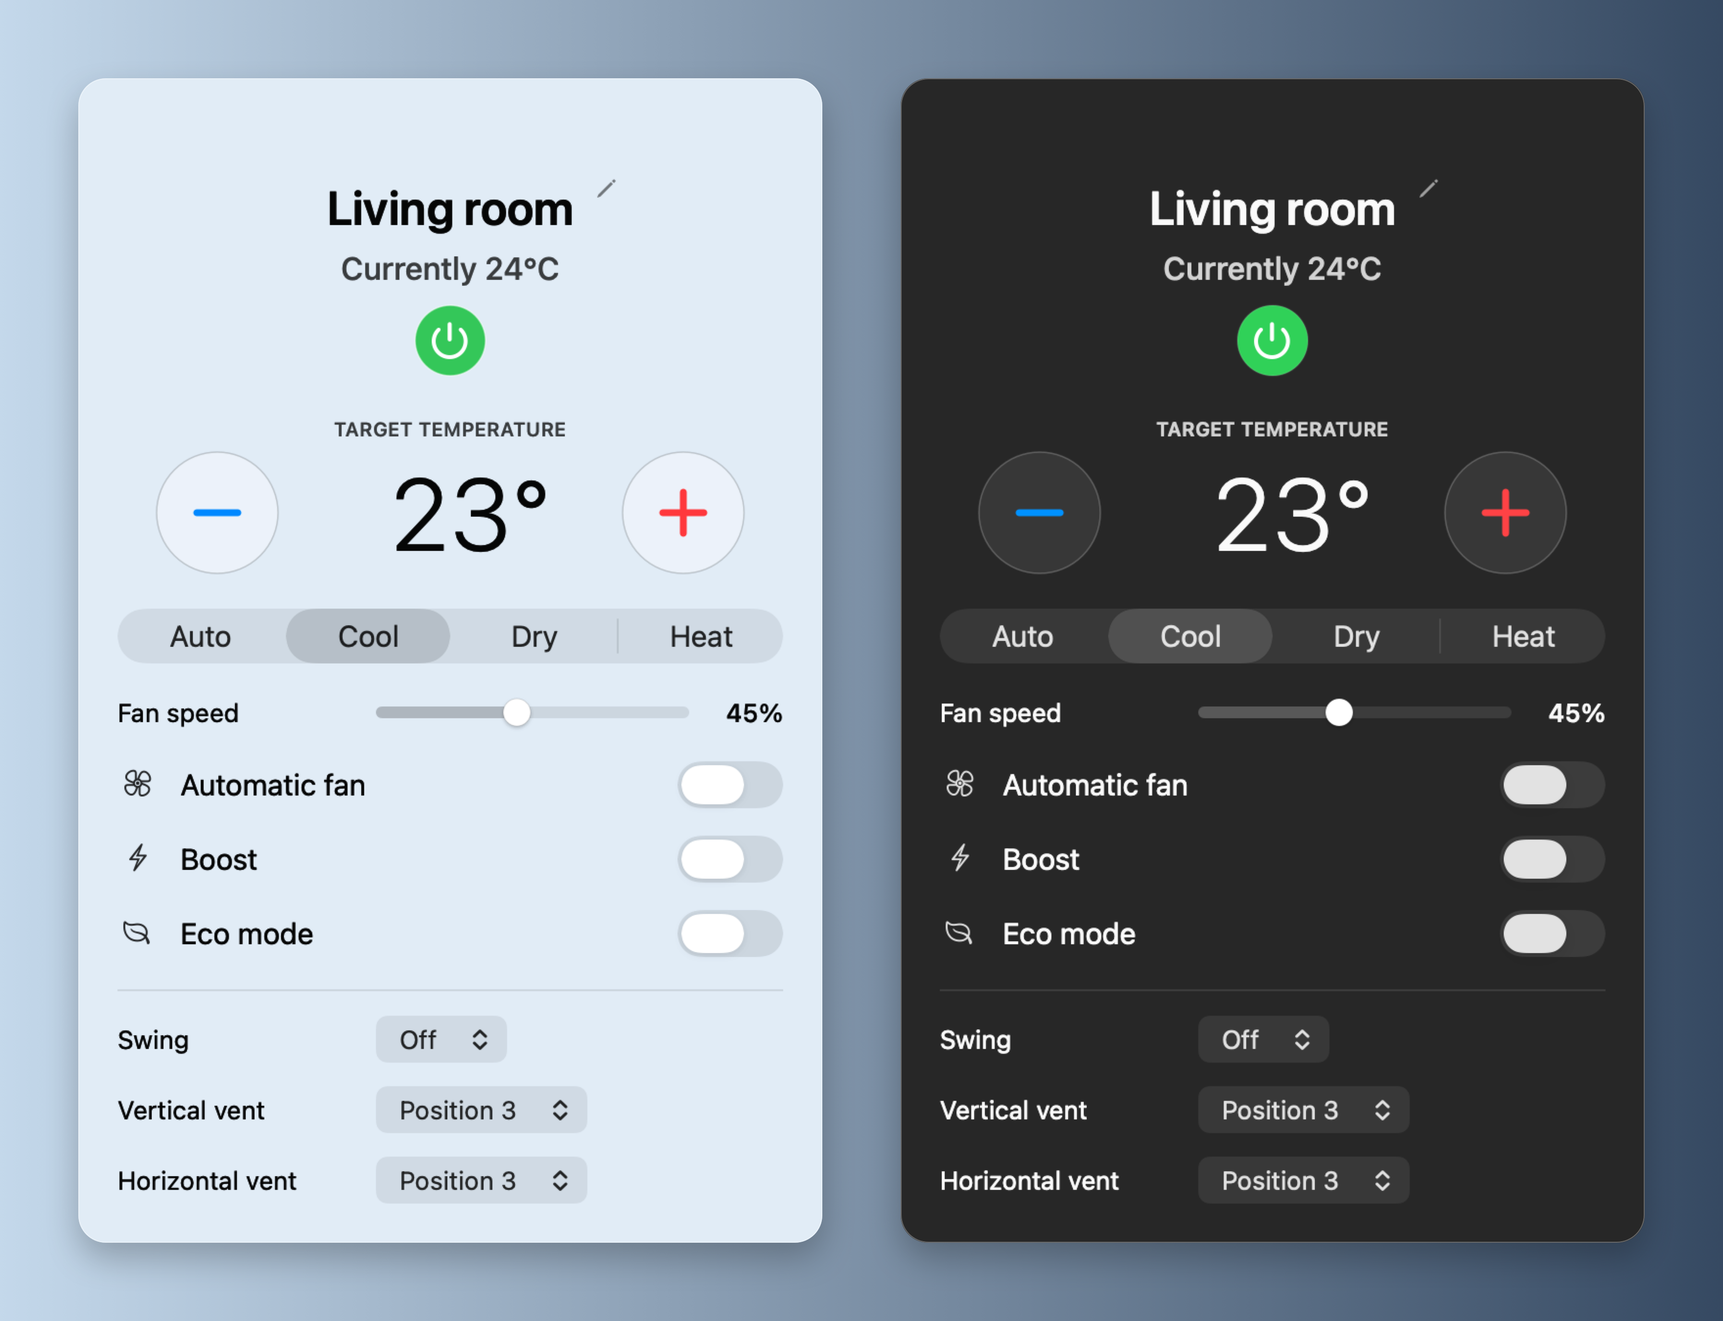
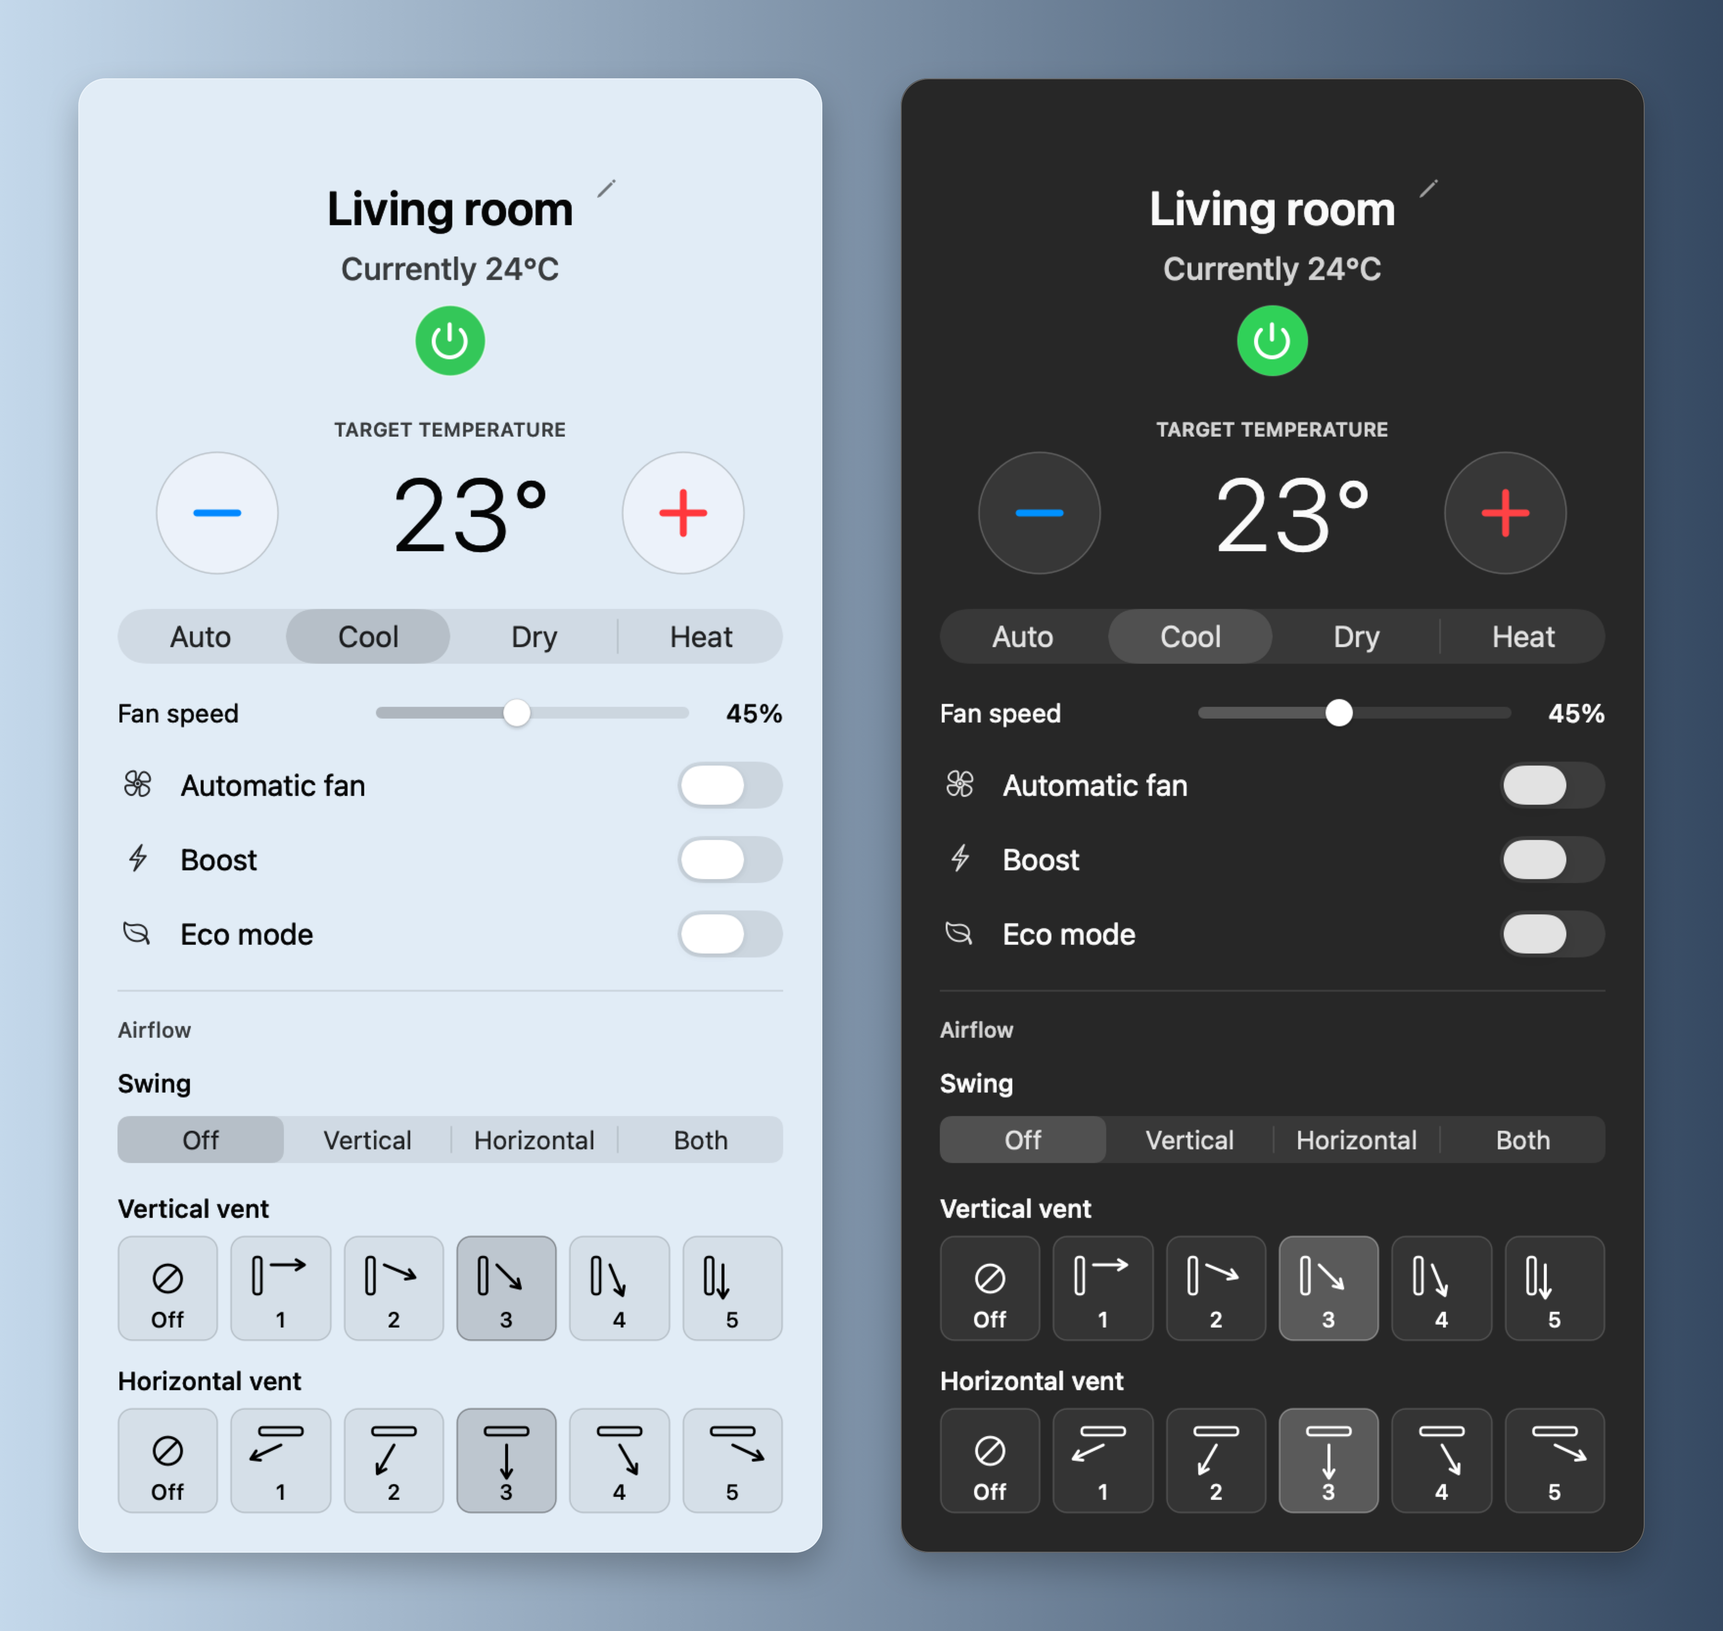
Add visual airflow controls, native tests, and Trivy SARIF uploads

diff --git a/native/VentPositionControl.swift b/native/VentPositionControl.swift
@@ -1,0 +1,112 @@
+import Cocoa
+
+@MainActor
+final class VentPositionControl: NSControl {
+    enum Axis { case vertical, horizontal }
+    private let axis: Axis
+    private let buttons = NSStackView()
+    private var values: [Int32] = []
+    private(set) var selectedValue: Int32?
+    override var isEnabled: Bool { didSet { buttons.arrangedSubviews.compactMap { $0 as? NSButton }.forEach { $0.isEnabled = isEnabled; $0.needsDisplay = true } } }
+    override var mouseDownCanMoveWindow: Bool { false }
+
+    init(axis: Axis) {
+        self.axis = axis
+        super.init(frame: .zero)
+        buttons.orientation = .horizontal; buttons.spacing = 6; buttons.distribution = .fillEqually
+        buttons.translatesAutoresizingMaskIntoConstraints = false
+        addSubview(buttons)
+        NSLayoutConstraint.activate([
+            buttons.leadingAnchor.constraint(equalTo: leadingAnchor), buttons.trailingAnchor.constraint(equalTo: trailingAnchor),
+            buttons.topAnchor.constraint(equalTo: topAnchor), buttons.bottomAnchor.constraint(equalTo: bottomAnchor),
+            heightAnchor.constraint(equalToConstant: 54)
+        ])
+    }
+    required init?(coder: NSCoder) { fatalError("init(coder:) has not been implemented") }
+
+    func update(values: [Int32], selected: Int32?) {
+        if self.values != values {
+            self.values = values
+            for view in buttons.arrangedSubviews { buttons.removeArrangedSubview(view); view.removeFromSuperview() }
+            for value in values {
+                let button = VentPositionButton(axis: axis, value: value)
+                button.target = self; button.action = #selector(choose(_:)); button.isEnabled = isEnabled
+                buttons.addArrangedSubview(button)
+                button.heightAnchor.constraint(equalToConstant: 54).isActive = true
+            }
+        }
+        selectedValue = values.contains(where: { $0 == selected }) ? selected : nil
+        for case let button as VentPositionButton in buttons.arrangedSubviews {
+            button.state = Int32(button.tag) == selectedValue ? .on : .off
+            button.needsDisplay = true
+        }
+    }
+    @objc private func choose(_ sender: NSButton) {
+        guard isEnabled else { return }
+        update(values: values, selected: Int32(sender.tag))
+        sendAction(action, to: target)
+    }
+}
+
+@MainActor
+private final class VentPositionButton: NSButton {
+    private let axis: VentPositionControl.Axis
+    private let position: Int
+    init(axis: VentPositionControl.Axis, value: Int32) {
+        self.axis = axis
+        position = [Int32(0), 1, 25, 50, 75, 100].firstIndex(of: value) ?? 0
+        super.init(frame: .zero)
+        tag = Int(value); title = ""; isBordered = false; setButtonType(.pushOnPushOff)
+        let label = position == 0 ? "Off" : "Position \(position)"
+        toolTip = "\(axis == .vertical ? "Vertical" : "Horizontal") vent: \(label)"
+        setAccessibilityLabel(toolTip)
+    }
+    required init?(coder: NSCoder) { fatalError("init(coder:) has not been implemented") }
+    override var mouseDownCanMoveWindow: Bool { false }
+    override var isFlipped: Bool { false }
+    override var alignmentRectInsets: NSEdgeInsets { NSEdgeInsetsZero }
+    override func viewDidChangeEffectiveAppearance() { super.viewDidChangeEffectiveAppearance(); needsDisplay = true }
+    override func draw(_ dirtyRect: NSRect) {
+        let dark = effectiveAppearance.bestMatch(from: [.darkAqua, .aqua]) == .darkAqua
+        let tile = NSBezierPath(roundedRect: bounds.insetBy(dx: 0.5, dy: 0.5), xRadius: 7, yRadius: 7)
+        NSColor.labelColor.withAlphaComponent(state == .on ? (dark ? 0.24 : 0.16) : (isHighlighted ? 0.14 : 0.06)).setFill(); tile.fill()
+        NSColor.labelColor.withAlphaComponent(state == .on ? 0.36 : 0.16).setStroke(); tile.lineWidth = 0.75; tile.stroke()
+        let ink = NSColor.labelColor.withAlphaComponent(isEnabled ? 1 : 0.35)
+        ink.setStroke()
+        let mid = bounds.midX
+        let iconY = bounds.height - 22
+        if position == 0 {
+            let circle = NSBezierPath(ovalIn: NSRect(x: mid - 7, y: iconY - 7, width: 14, height: 14))
+            circle.lineWidth = 1.4; circle.stroke()
+            let slash = NSBezierPath(); slash.move(to: NSPoint(x: mid - 5, y: iconY - 5)); slash.line(to: NSPoint(x: mid + 5, y: iconY + 5)); slash.lineWidth = 1.4; slash.stroke()
+        } else {
+            let origin: NSPoint
+            let angle: CGFloat
+            let vent: NSRect
+            if axis == .vertical {
+                vent = NSRect(x: mid - 14, y: iconY - 8, width: 4, height: 19)
+                origin = NSPoint(x: mid - 5, y: iconY + 7)
+                angle = -CGFloat(position - 1) * .pi / 8
+            } else {
+                vent = NSRect(x: mid - 11, y: iconY + 8, width: 22, height: 4)
+                origin = NSPoint(x: mid, y: iconY + 3)
+                let turns: [CGFloat] = [-65, -30, 0, 30, 65]
+                angle = -.pi / 2 + turns[position - 1] * .pi / 180
+            }
+            let bar = NSBezierPath(roundedRect: vent, xRadius: 1.5, yRadius: 1.5); bar.lineWidth = 1.3; bar.stroke()
+            let end = NSPoint(x: origin.x + 17 * cos(angle), y: origin.y + 17 * sin(angle))
+            let arrow = NSBezierPath(); arrow.move(to: origin); arrow.line(to: end)
+            for turn: CGFloat in [-0.55, 0.55] {
+                arrow.move(to: end)
+                arrow.line(to: NSPoint(x: end.x - 5 * cos(angle + turn), y: end.y - 5 * sin(angle + turn)))
+            }
+            arrow.lineWidth = 1.5; arrow.lineCapStyle = .round; arrow.lineJoinStyle = .round; arrow.stroke()
+        }
+        let label = position == 0 ? "Off" : String(position)
+        let attributes: [NSAttributedString.Key: Any] = [.font: NSFont.systemFont(ofSize: 11, weight: .medium), .foregroundColor: ink]
+        let size = (label as NSString).size(withAttributes: attributes)
+        (label as NSString).draw(at: NSPoint(x: mid - size.width / 2, y: 4), withAttributes: attributes)
+    }
+    override var focusRingMaskBounds: NSRect { bounds }
+    override func drawFocusRingMask() { NSBezierPath(roundedRect: bounds, xRadius: 7, yRadius: 7).fill() }
+}

diff --git a/native/AcMan.swift b/native/AcMan.swift
@@ -81,9 +81,10 @@ final class App: NSObject, NSApplicationDelegate, NSMenuDelegate {
     private let boost = NSSwitch()
     private let eco = NSSwitch()
     private let fanNote = NSTextField(wrappingLabelWithString: "")
-    private let swing = NSPopUpButton()
-    private let verticalAngle = NSPopUpButton()
-    private let horizontalAngle = NSPopUpButton()
+    private let swing = NSSegmentedControl()
+    private var swingChoices: [Choice] = []
+    private let verticalAngle = VentPositionControl(axis: .vertical)
+    private let horizontalAngle = VentPositionControl(axis: .horizontal)
     private var verticalAngleRow: NSStackView?
     private var horizontalAngleRow: NSStackView?
     private let footer = NSTextField(wrappingLabelWithString: "")
@@ -427,13 +428,24 @@ final class App: NSObject, NSApplicationDelegate, NSMenuDelegate {
         full(fanNote, in: contents); fanNote.heightAnchor.constraint(equalToConstant: 30).isActive = true
         let fanDivider = NSBox(); fanDivider.boxType = .separator
         full(fanDivider, in: contents)
-        configure(swing, #selector(setSwing)); row("Swing", swing, in: contents)
+        let airflow = NSTextField(labelWithString: "Airflow")
+        airflow.font = .systemFont(ofSize: 11, weight: .medium); airflow.textColor = .secondaryLabelColor
+        full(airflow, in: contents)
+        func airflowSetting(_ title: String, control: NSControl) -> NSStackView {
+            let label = NSTextField(labelWithString: title); label.font = .systemFont(ofSize: 13, weight: .medium)
+            let group = NSStackView(); group.orientation = .vertical; group.alignment = .leading; group.spacing = 6
+            full(label, in: group); full(control, in: group); full(group, in: contents)
+            return group
+        }
+        configure(swing, #selector(setSwing)); swing.segmentStyle = .rounded
+        swing.segmentDistribution = .fillEqually; swing.trackingMode = .selectOne
+        swing.heightAnchor.constraint(equalToConstant: 30).isActive = true
+        swing.setAccessibilityLabel("Swing")
+        _ = airflowSetting("Swing", control: swing)
         configure(verticalAngle, #selector(setVerticalAngle))
-        verticalAngle.setAccessibilityLabel("Vertical vent position")
-        verticalAngleRow = row("Vertical vent", verticalAngle, in: contents)
+        verticalAngleRow = airflowSetting("Vertical vent", control: verticalAngle)
         configure(horizontalAngle, #selector(setHorizontalAngle))
-        horizontalAngle.setAccessibilityLabel("Horizontal vent position")
-        horizontalAngleRow = row("Horizontal vent", horizontalAngle, in: contents)
+        horizontalAngleRow = airflowSetting("Horizontal vent", control: horizontalAngle)
         footer.font = .systemFont(ofSize: 11); footer.textColor = .secondaryLabelColor
         footer.heightAnchor.constraint(equalToConstant: 42).isActive = true
         full(footer, in: contents)
@@ -475,7 +487,11 @@ final class App: NSObject, NSApplicationDelegate, NSMenuDelegate {
             modeSegments.selectedSegment = d.modes.firstIndex { $0.value == (change?.mode ?? d.mode) } ?? -1
             let compactModes = (1...4).contains(d.modes.count)
             modeRow?.isHidden = compactModes; modeSegments.isHidden = !compactModes
-            updatePicker(swing, choices: d.swings, value: change?.swing ?? d.swing)
+            if swingChoices != d.swings {
+                swingChoices = d.swings; swing.segmentCount = d.swings.count
+                for (index, choice) in d.swings.enumerated() { swing.setLabel(choice.name, forSegment: index) }
+            }
+            swing.selectedSegment = d.swings.firstIndex { $0.value == (change?.swing ?? d.swing) } ?? -1
             updateAnglePicker(verticalAngle, choices: d.verticalAngles, value: change?.verticalAngle ?? d.verticalAngle)
             updateAnglePicker(horizontalAngle, choices: d.horizontalAngles, value: change?.horizontalAngle ?? d.horizontalAngle)
             fanSteps = d.customFan ? Array(1...100) : d.fans.map { Int($0.value) }.filter { (1...100).contains($0) }.sorted()
@@ -531,11 +547,8 @@ final class App: NSObject, NSApplicationDelegate, NSMenuDelegate {
         picker.selectItem(withTag: Int(value))
     }
 
-    private func updateAnglePicker(_ picker: NSPopUpButton, choices: [Choice], value: Int32?) {
-        // A supported vent may not have reported its position yet; don't imply it is off.
-        let available = value == nil ? [Choice(value: -1, name: "Unknown")] + choices : choices
-        updatePicker(picker, choices: available, value: value ?? -1)
-        picker.menu?.item(withTag: -1)?.isEnabled = false
+    private func updateAnglePicker(_ picker: VentPositionControl, choices: [Choice], value: Int32?) {
+        picker.update(values: choices.map { $0.value }, selected: value)
     }
 
     private func merging(_ older: SettingsChange?, _ newer: SettingsChange) -> SettingsChange {
@@ -614,9 +627,12 @@ final class App: NSObject, NSApplicationDelegate, NSMenuDelegate {
         change(mode: modeChoices[modeSegments.selectedSegment].value)
     }
     @objc private func setMode() { change(mode: Int32(mode.selectedTag())) }
-    @objc private func setSwing() { change(swing: Int32(swing.selectedTag())) }
-    @objc private func setVerticalAngle() { change(verticalAngle: Int32(verticalAngle.selectedTag())) }
-    @objc private func setHorizontalAngle() { change(horizontalAngle: Int32(horizontalAngle.selectedTag())) }
+    @objc private func setSwing() {
+        guard swingChoices.indices.contains(swing.selectedSegment) else { return }
+        change(swing: swingChoices[swing.selectedSegment].value)
+    }
+    @objc private func setVerticalAngle() { change(verticalAngle: verticalAngle.selectedValue) }
+    @objc private func setHorizontalAngle() { change(horizontalAngle: horizontalAngle.selectedValue) }
     private func manualFanSelection() -> Int32? {
         guard let d = selected else { return nil }
         let remembered = manualSpeeds[d.id] ?? fanPercentage()

diff --git a/tests/native/ControlsTests.swift b/tests/native/ControlsTests.swift
@@ -1,0 +1,59 @@
+import Cocoa
+
+@MainActor
+private final class SelectionRecorder: NSObject {
+    var values: [Int32?] = []
+    @objc func record(_ control: VentPositionControl) { values.append(control.selectedValue) }
+}
+
+@main
+struct ControlsTests {
+    @MainActor static func main() {
+        _ = NSApplication.shared
+        var checks = 0
+        func check(_ condition: @autoclosure () -> Bool, _ message: String) {
+            guard condition() else { fatalError(message) }
+            checks += 1
+        }
+        for axis in [VentPositionControl.Axis.vertical, .horizontal] {
+            let control = VentPositionControl(axis: axis)
+            let recorder = SelectionRecorder()
+            control.target = recorder; control.action = #selector(SelectionRecorder.record(_:))
+            let supported: [Int32] = [0, 1, 25, 50, 75, 100]
+            control.update(values: supported, selected: nil)
+            let stack = control.subviews[0] as! NSStackView
+            let buttons = stack.arrangedSubviews.compactMap { $0 as? NSButton }
+            check(buttons.count == 6, "Each supported position needs a button")
+            check(buttons.allSatisfy { $0.state == .off }, "Unknown position must not imply Off")
+            for (button, value) in zip(buttons, supported) {
+                button.performClick(nil)
+                check(control.selectedValue == value, "Wrong protocol position sent")
+                check(recorder.values.last! == value, "Selection action must carry the protocol value")
+                check(buttons.filter { $0.state == .on }.count == 1, "Exactly one position must be selected")
+            }
+            control.update(values: supported, selected: 25)
+            check(stack.arrangedSubviews[2] === buttons[2], "Refresh must preserve button identity and keyboard focus")
+            control.update(values: supported, selected: 99)
+            check(control.selectedValue == nil && buttons.allSatisfy { $0.state == .off }, "Unrecognized positions must remain unselected")
+            control.isEnabled = false
+            let before = recorder.values.count
+            buttons[1].performClick(nil)
+            check(recorder.values.count == before, "Disabled controls must not send actions")
+            check(buttons.allSatisfy { !$0.isEnabled }, "Disabled state must reach every button")
+            control.update(values: [0, 50], selected: 50)
+            check(stack.arrangedSubviews.count == 2, "Unsupported positions must not be offered")
+            check(stack.arrangedSubviews.compactMap { $0 as? NSButton }.allSatisfy { !$0.isEnabled }, "Rebuilding cannot enable offline controls")
+            control.isEnabled = true
+            check(stack.arrangedSubviews.compactMap { $0 as? NSButton }.allSatisfy { $0.isEnabled }, "Controls must recover after reconnect")
+        }
+        for code: Int32 in [101, 103, 127, -1] {
+            check(FanSpeedDisplay.label(code, boost: false) == "—", "Reserved fan code cannot be a percentage")
+            check(FanSpeedDisplay.sliderValue(code, lastManual: 45) == 45, "Unknown fan code must retain the manual slider value")
+        }
+        check(FanSpeedDisplay.label(102, boost: false) == "Auto", "Auto fan label")
+        check(FanSpeedDisplay.label(101, boost: true) == "Boost", "Boost label takes priority")
+        check(FanSpeedDisplay.label(100, boost: false) == "100%", "Maximum valid percentage")
+        check(FanSpeedDisplay.sliderValue(101, lastManual: nil) == 50, "Unknown slider fallback")
+        print("Native control tests passed: \(checks) checks")
+    }
+}

diff --git a/README.md b/README.md
@@ -36,7 +36,7 @@ Light and dark appearances, rendered from the native controls with example room 
 Open **ac-man.app**, then click its air-conditioner icon in the menu bar. Sign in and choose a discovered AC to see its status and controls:
 
 - Power, target temperature in Celsius, operating mode, and swing.
-- Vertical and horizontal vent positions on units that advertise support.
+- Visual vertical and horizontal vent position buttons on units that advertise support, plus a segmented Swing selector.
 - Fan speed as a percentage slider, with an **Automatic fan** switch.
 - A **Boost** switch for the unit's turbo setting and an **Eco mode** switch on supported units.
 - A local room label, shared with the CLI.
@@ -206,7 +206,11 @@ The runtime does not start a desktop keyring or D-Bus service, so it is mainly u
 
 ## GitHub Actions and manual releases
 
-**Tests and security** runs on pull requests and can also be started manually. It checks Rust formatting, Clippy, tests, CLI builds on Linux x86_64 and macOS arm64/Intel, the Apple Silicon Swift app build, Cargo Audit, Trivy source scans, and the built runtime image. The workflow also serves as the release verification gate.
+**Tests and security** runs on pull requests and pushes to main, and can also be started manually. It checks Rust formatting, Clippy, tests, CLI builds on Linux x86_64 and macOS arm64/Intel, the Apple Silicon Swift app build, Cargo Audit, Trivy source scans, and the built runtime image. The workflow also serves as the release verification gate.
+
+Native macOS control tests (no AC commands): `make test-native`.
+
+Trivy source and container scans publish separate SARIF analyses to GitHub **Security → Code scanning** for main and same-repository PRs. Reports are also saved as workflow artifacts, including fork PRs and release checks. High/Critical findings still fail CI; RustSec checks run with `cargo audit`. Trivy covers dependencies, secrets, and configuration rather than general application-code data-flow analysis.
 
 **Release selected tag** runs only through `workflow_dispatch`; pushing a tag does not publish a release. First follow the [macOS signing setup](docs/macos-release.md) to configure the `macos-release` GitHub environment with your Apple certificate and notarization credentials. The workflow refuses to publish if signing or notarization fails. To release:
 

diff --git a/docs/releases/v0.0.4.md b/docs/releases/v0.0.4.md
@@ -2,6 +2,9 @@
 
 ## What’s new
 
+- Added visual vent position tiles with distinct directional arrows and a segmented Swing selector.
+- Added native control regression tests to macOS CI.
+
 - Automatic fan, Boost, and Eco toggles are mutually exclusive: selecting one clears the other two in the same request.
 
 - Fixed the fan slider thumb disappearing during dragging on the blurred control window.
